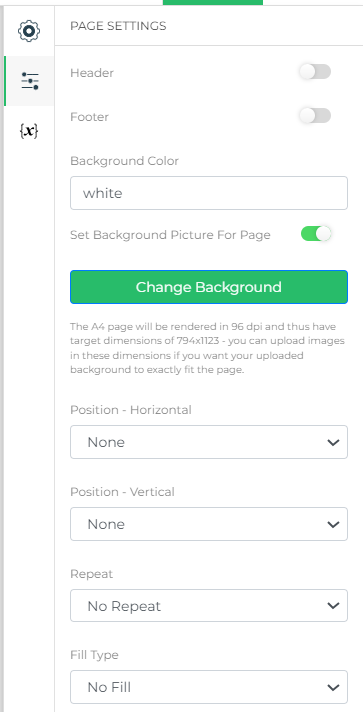
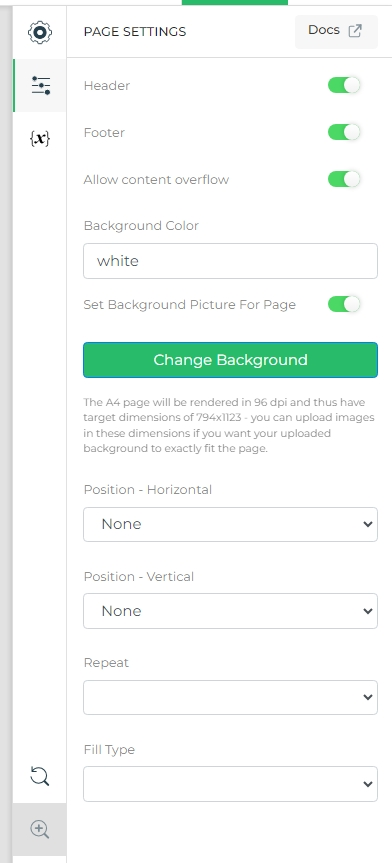
pdf editor

diff --git a/docs/pdf-creator-editor.md b/docs/pdf-creator-editor.md
@@ -31,11 +31,21 @@ Global settings applies to all the pages at once and has the following fields as
 | Page Size   | A dropdown to choose from over 18 page sizes, which includes A4, Legal, Letter, Tabloid, to name a few. By default, the page size is A4.                                                       |
 | Orientation | You can either choose Portrait or Landscape mode to work on. By default, the page orientation is Portrait.                                                                                     |
 | Margin      | The margin for each side can be configured separately. Page dpi has a fixed value of `96`, so this means `1 cm` is equivalent to `37.8 pixels` and `1 inch` is equivalent to `96 pixels`.  |
+| Show Common Header For All Pages  | Enable this feature to display a consistent header across all PDF pages. This header will repeat on every page, including those pages with overflowing content. This overcomes the limitation of in-page headers, ensuring your header remains visible throughout. You can add/edit content to the common header from the first page of the pdf only.|
+|  Show Common Footer For All Pages  |  Enable this feature to display a consistent footer across all PDF pages. This footer will repeat on every page, including those pages with overflowing content. This overcomes the limitation of in-page footers, ensuring your footer remains visible throughout. You can add/edit content to the common footer from the first page of the pdf only. |
+
+:::note
+
+ It is recommended to use common header and common footer together for better design experience. When common header is used with in-page footers, this may cause alignment issues in the generated PDF.
+
+:::
 
 <figure>
     <Thumbnail src="/img/pdf_creator/pdf-editor/pdf-creator-global-configuration.png" alt="Global configuration" />
     <figcaption align='center'><i>Global configuration</i></figcaption>
 </figure>
+
+
 
   </TabItem>
 
@@ -46,7 +56,9 @@ Page settings are only visible if a page is focused and has the following fields
 
 | Field              | Description                                                                                                                                                                                                                                                                                                    |   |
 |--------------------|----------------------------------------------------------------------------------------------------------------------------------------------------------------------------------------------------------------------------------------------------------------------------------------------------------------|---|
-| Header / Footer    | The header/footer component can be added or removed from the page by switching the toggle switch. The dimensions are not configurable and takes up the entire page width and has a fixed height of 100px. All the content components like Text, Image, Table are supported inside the header/footer component. |   |
+| Header | Add a custom header to a specific page and design it independently. This feature allows you to create unique headers for each page.|   
+|  Footer | Add a custom footer to a specific page and design it independently. This feature allows you to create unique footers for each page. |
+|Allow Content Overflow |Enable this feature to allow dynamic content to seamlessly continue onto subsequent pages in the PDF. When toggled on, content that exceeds the first page's capacity, such as dynamic tables with numerous rows, will automatically spill over onto the next page(s) until all content is rendered. Conversely, disabling this feature will truncate the content to fit within the first page only.|
 | Background Color   | This field takes up all the values that is supported by a [css color property](https://developer.mozilla.org/en-US/docs/Web/CSS/color#syntax) like `white`, `#fff`, `rgb(255, 255, 255)`, `rgba(255, 255, 255, 0.5)`, and so on. By default, the background color is set to `white`.                           |   |
 | Background Picture | Any jpeg or png image can be used. Image options includes horizontal and vertical alignment, repeat and fill types.                                                                                                                                                                                            |   |
 
@@ -74,6 +86,17 @@ Page settings are only visible if a page is focused and has the following fields
 </figure>
   </TabItem>
 </Tabs>
+
+### Converting Between Header/Footer Types in PDF Templates
+
+When working with PDF templates, you may need to switch between in-page and common headers/footers. 
+
+#### Converting In-Page Header/Footer to Common Header/Footer  
+To convert an in-page header or footer to a common header or footer, specify the page number of the header/footer you want to apply as common. If you prefer to discard all in-page headers and footers, leave the field blank to create a new common header or footer.
+
+#### Converting Common Header/Footer to In-Page Header/Footer  
+If your PDF template currently uses a common header or footer, you can convert them to in-page headers or footers by selecting the option to disable common headers/footers while preserving the existing content. Alternatively, you can remove all headers and footers entirely for a cleaner layout.
+
 
 ### Components
 
